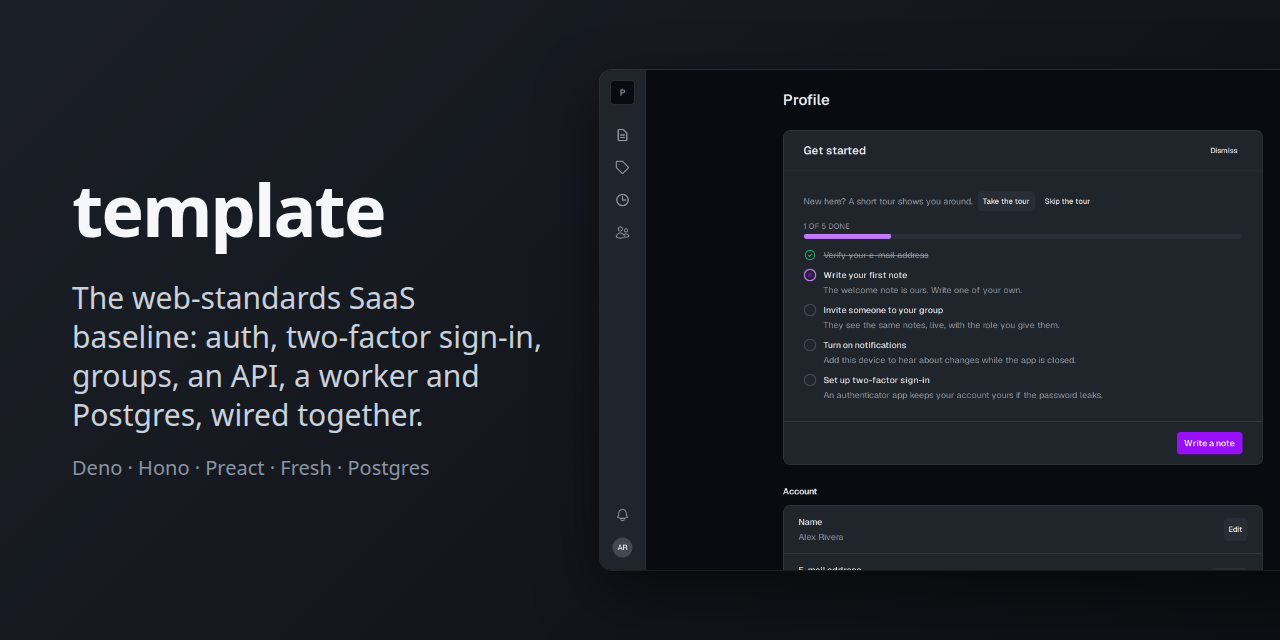
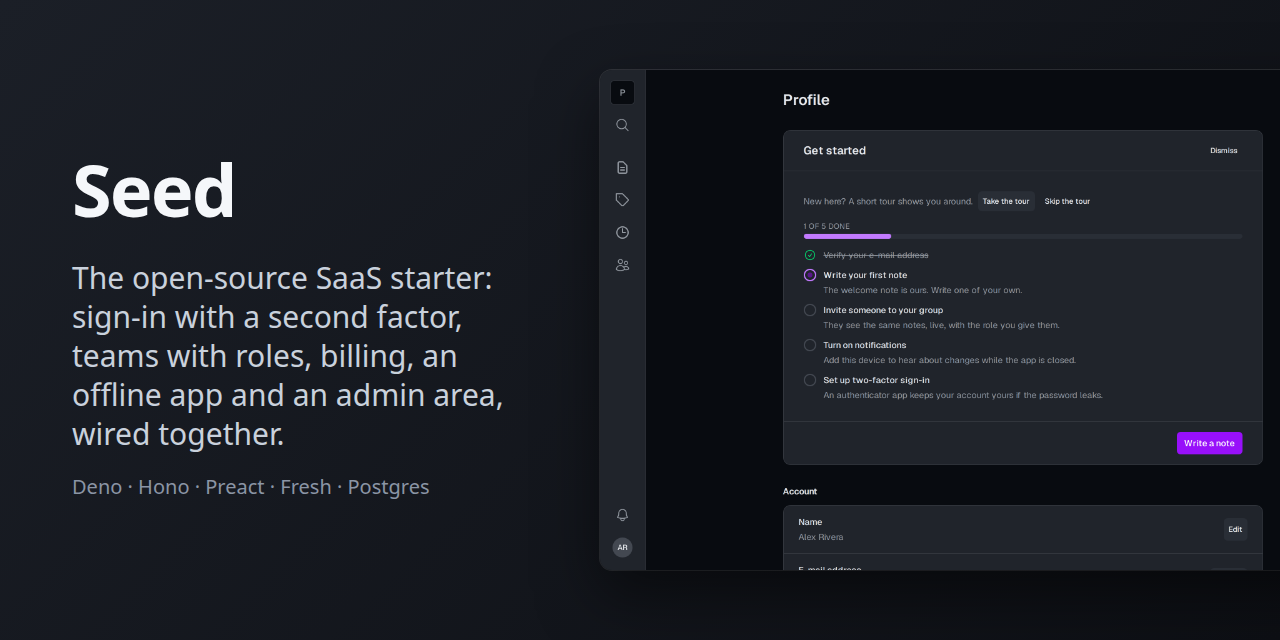
docs: regenerate the social preview as Seed

diff --git a/docs/screenshots/record.ts b/docs/screenshots/record.ts
@@ -129,9 +129,9 @@ async function socialPreview(browser: Browser, profile: Uint8Array): Promise<Uin
       <div style="position:absolute;left:72px;top:0;bottom:0;width:470px;display:flex;
         flex-direction:column;justify-content:center;gap:20px">
         <div style="font-size:72px;font-weight:700;letter-spacing:-2px">Seed</div>
-        <div style="font-size:30px;line-height:1.3;color:#c9d1dc">The web-standards SaaS
-          baseline: auth, two-factor sign-in, groups, an API, a worker and Postgres, wired
-          together.</div>
+        <div style="font-size:30px;line-height:1.3;color:#c9d1dc">The open-source SaaS
+          starter: sign-in with a second factor, teams with roles, billing, an offline app and
+          an admin area, wired together.</div>
         <div style="font-size:20px;color:#8b95a5">Deno · Hono · Preact · Fresh · Postgres</div>
       </div>
       <img src="${dataUrl(profile)}" style="position:absolute;left:600px;top:70px;width:800px;
